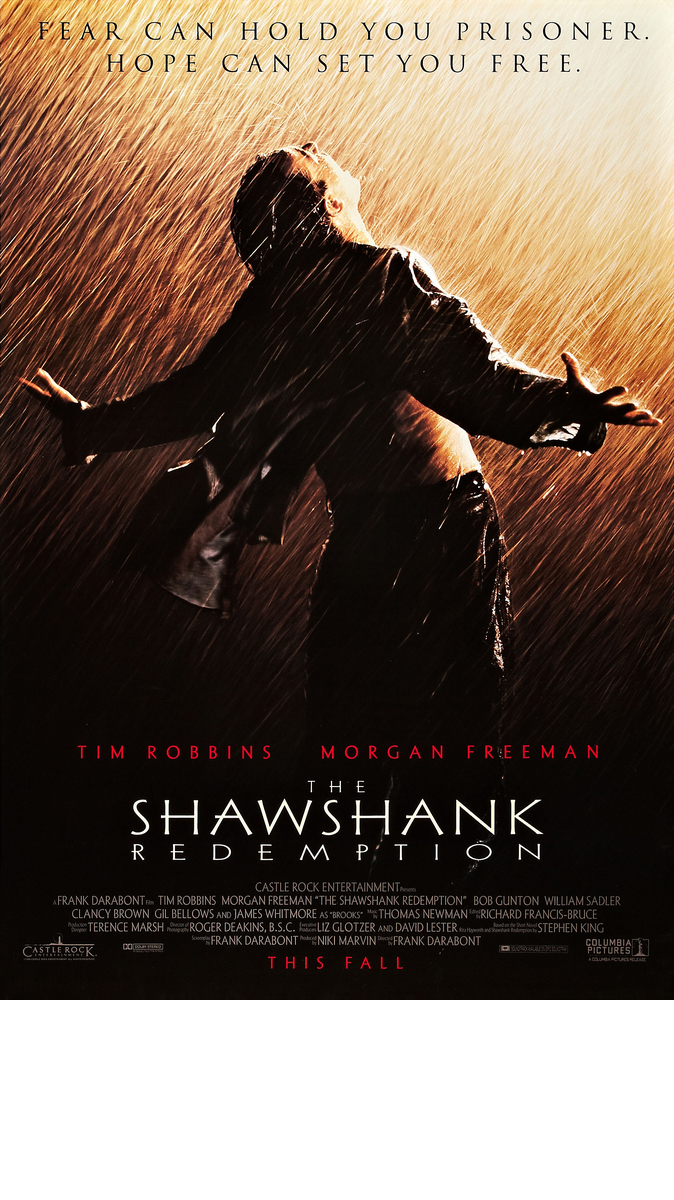
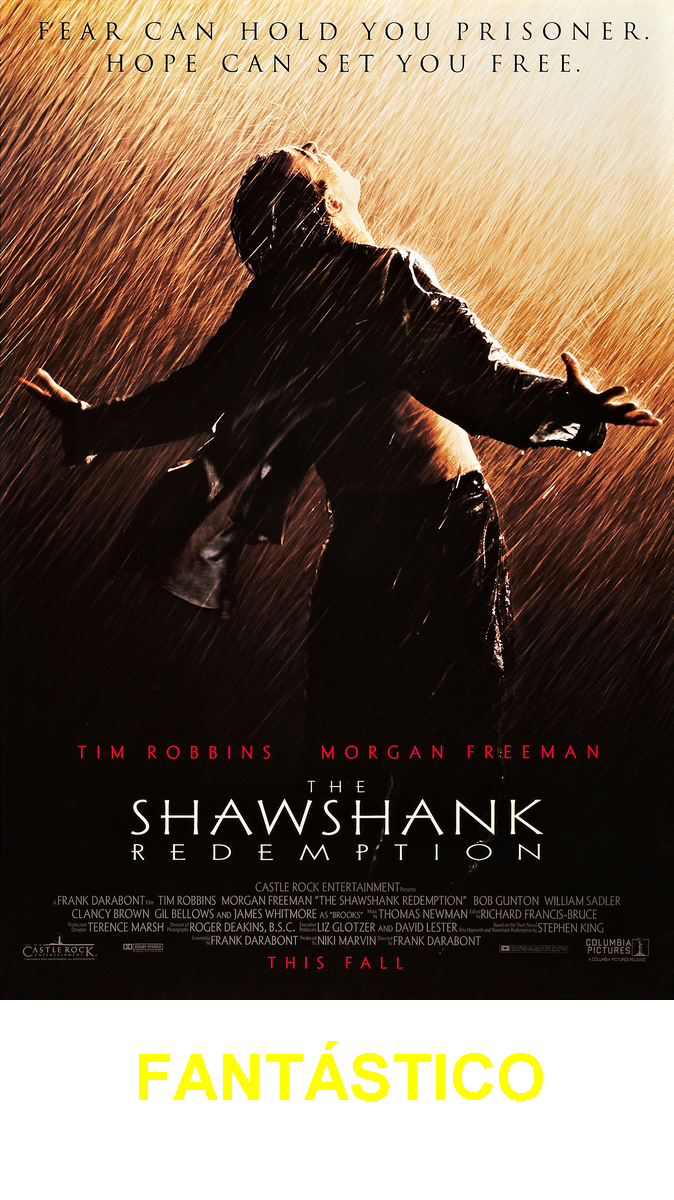
configurar a fonte

Changed region(s): [[0.1869, 0.8633, 0.8101, 0.925]]

diff --git a/src/fabricaDeStickers.java b/src/fabricaDeStickers.java
@@ -2,6 +2,8 @@ import java.awt.Graphics2D;
 import java.awt.image.BufferedImage;
 import java.io.File;
 import java.io.IOException;
+import java.awt.Color;
+import java.awt.Font;
 
 import javax.imageio.ImageIO;
 
@@ -24,8 +26,13 @@ public class fabricaDeStickers {
         Graphics2D graphics = (Graphics2D) novaImagem.getGraphics();
         graphics.drawImage(imagemOriginal, 0, 0, null);
 
+        //configurar a fonte
+        var fonte = new Font(Font.SANS_SERIF, Font.BOLD, 64);
+        graphics.setColor(Color.YELLOW);
+        graphics.setFont(fonte);
+
         // escrever uma frase na nova imagem
-        graphics.drawString("Fantástico", 0, novaAltura-100);
+        graphics.drawString("FANTÁSTICO", largura/5, novaAltura-100);
 
         // escrever a imagem nova num ficheiro
         ImageIO.write(novaImagem, "png", new File("saida/imagem.png"));
